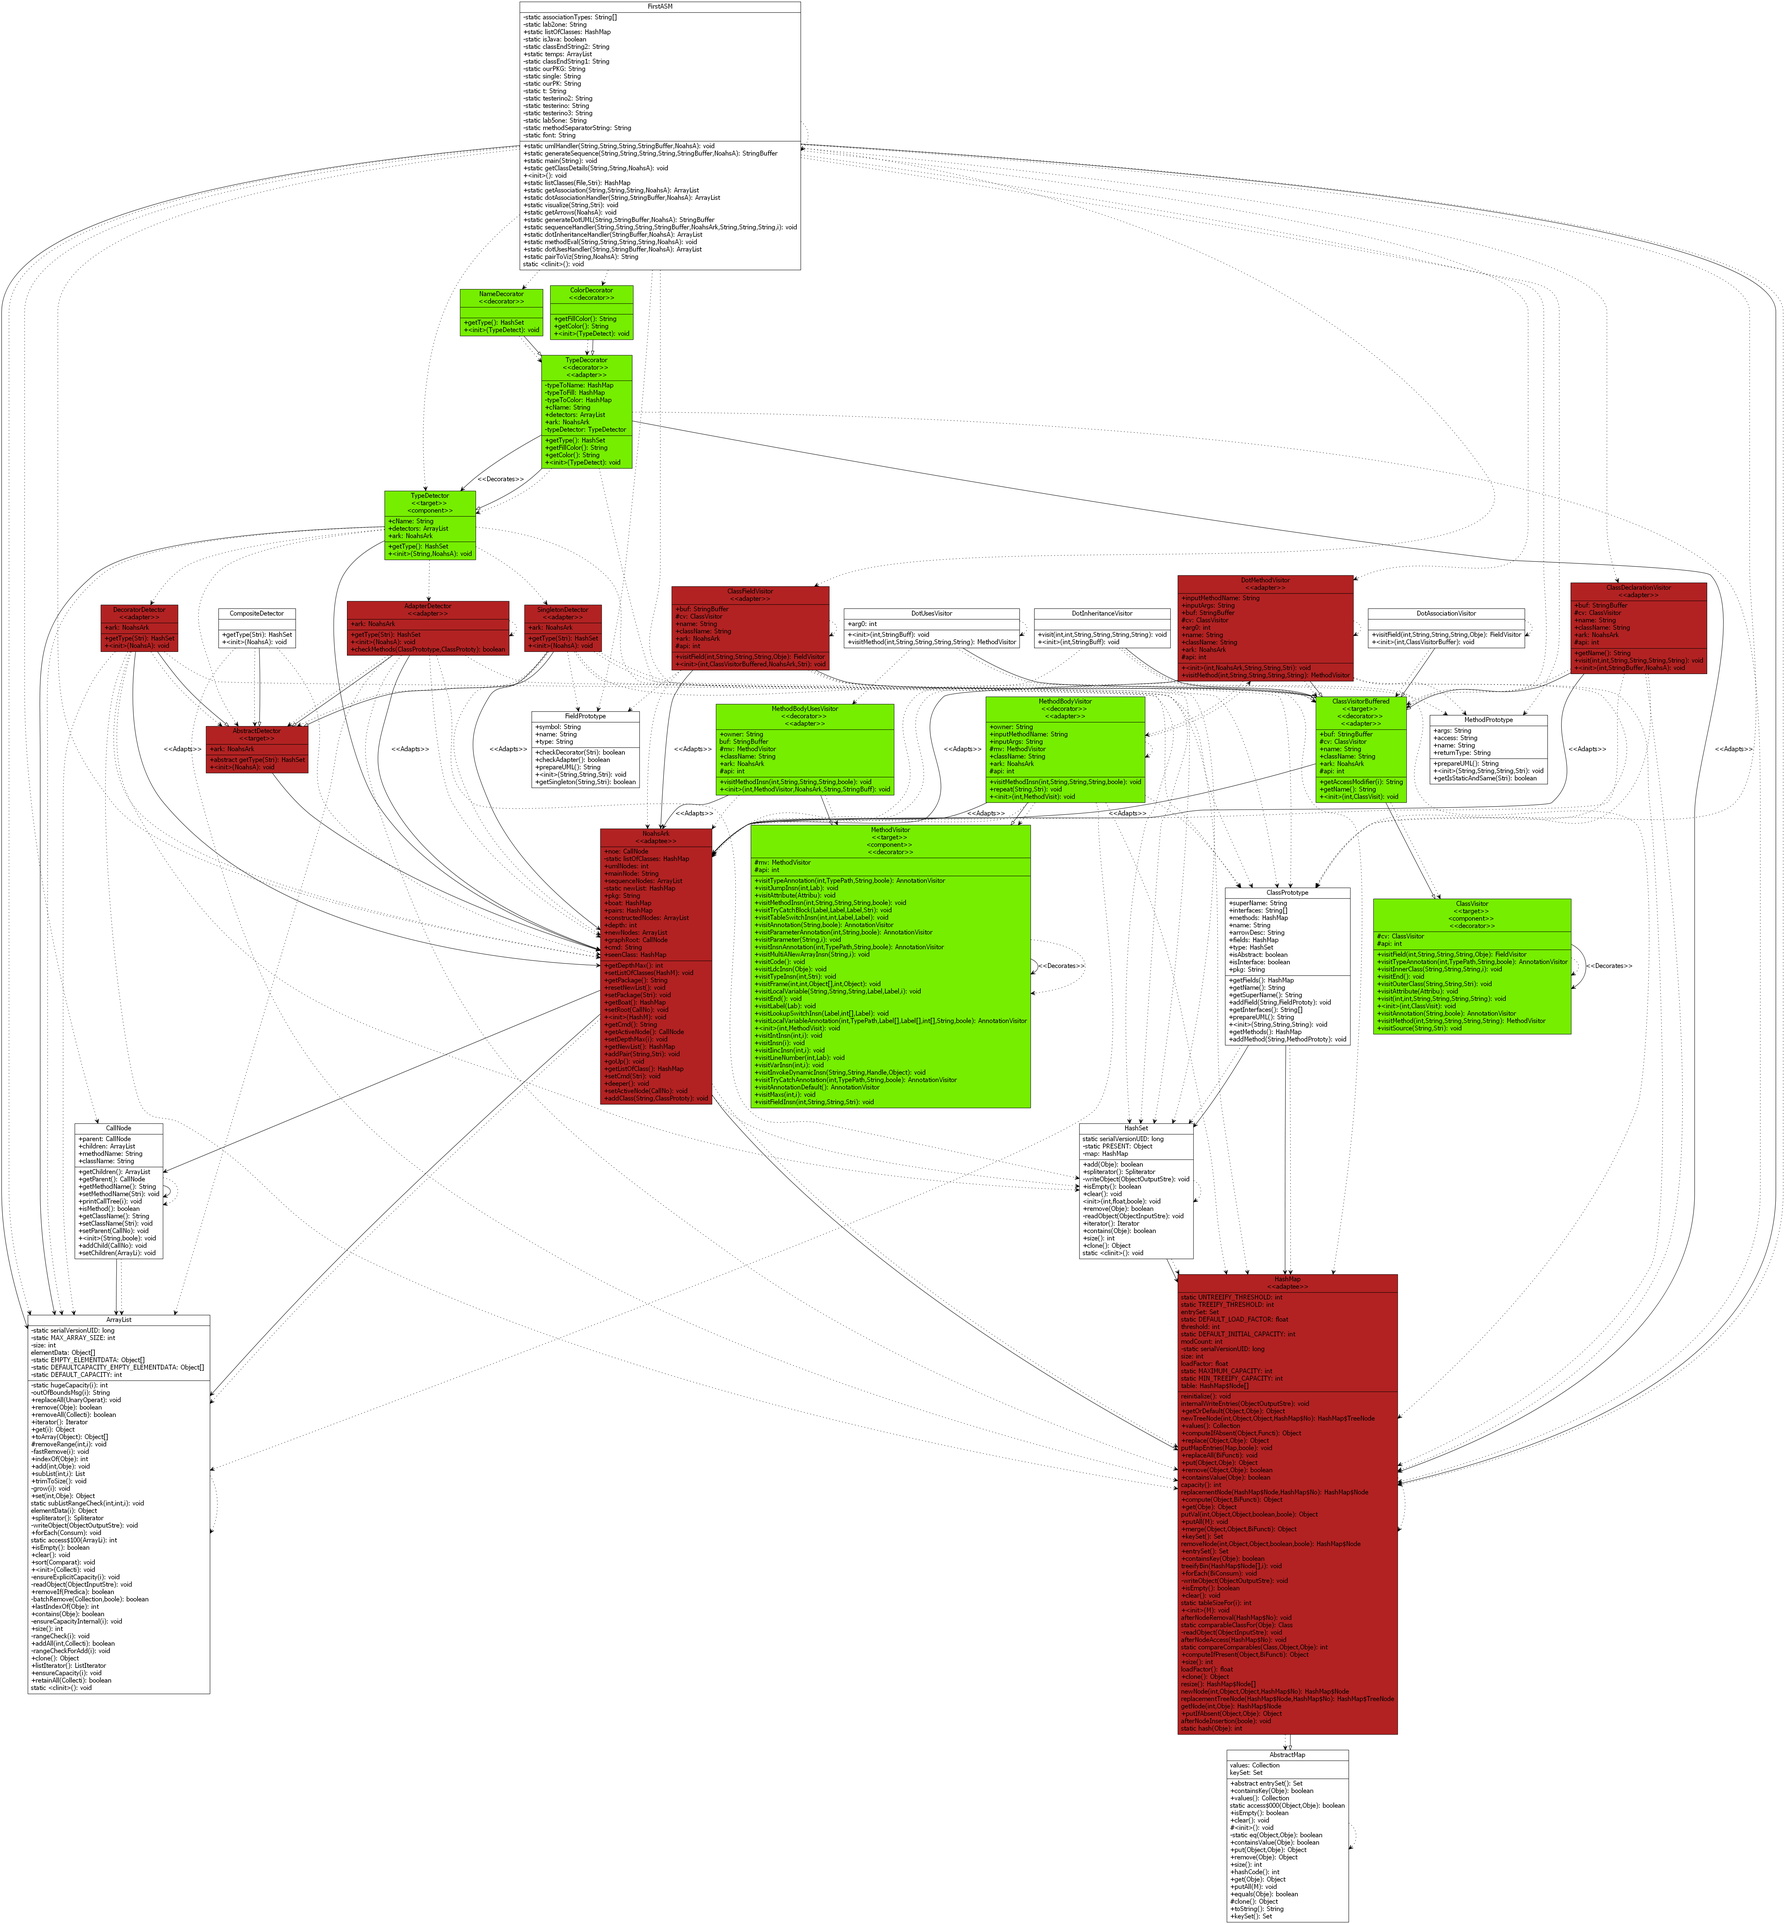
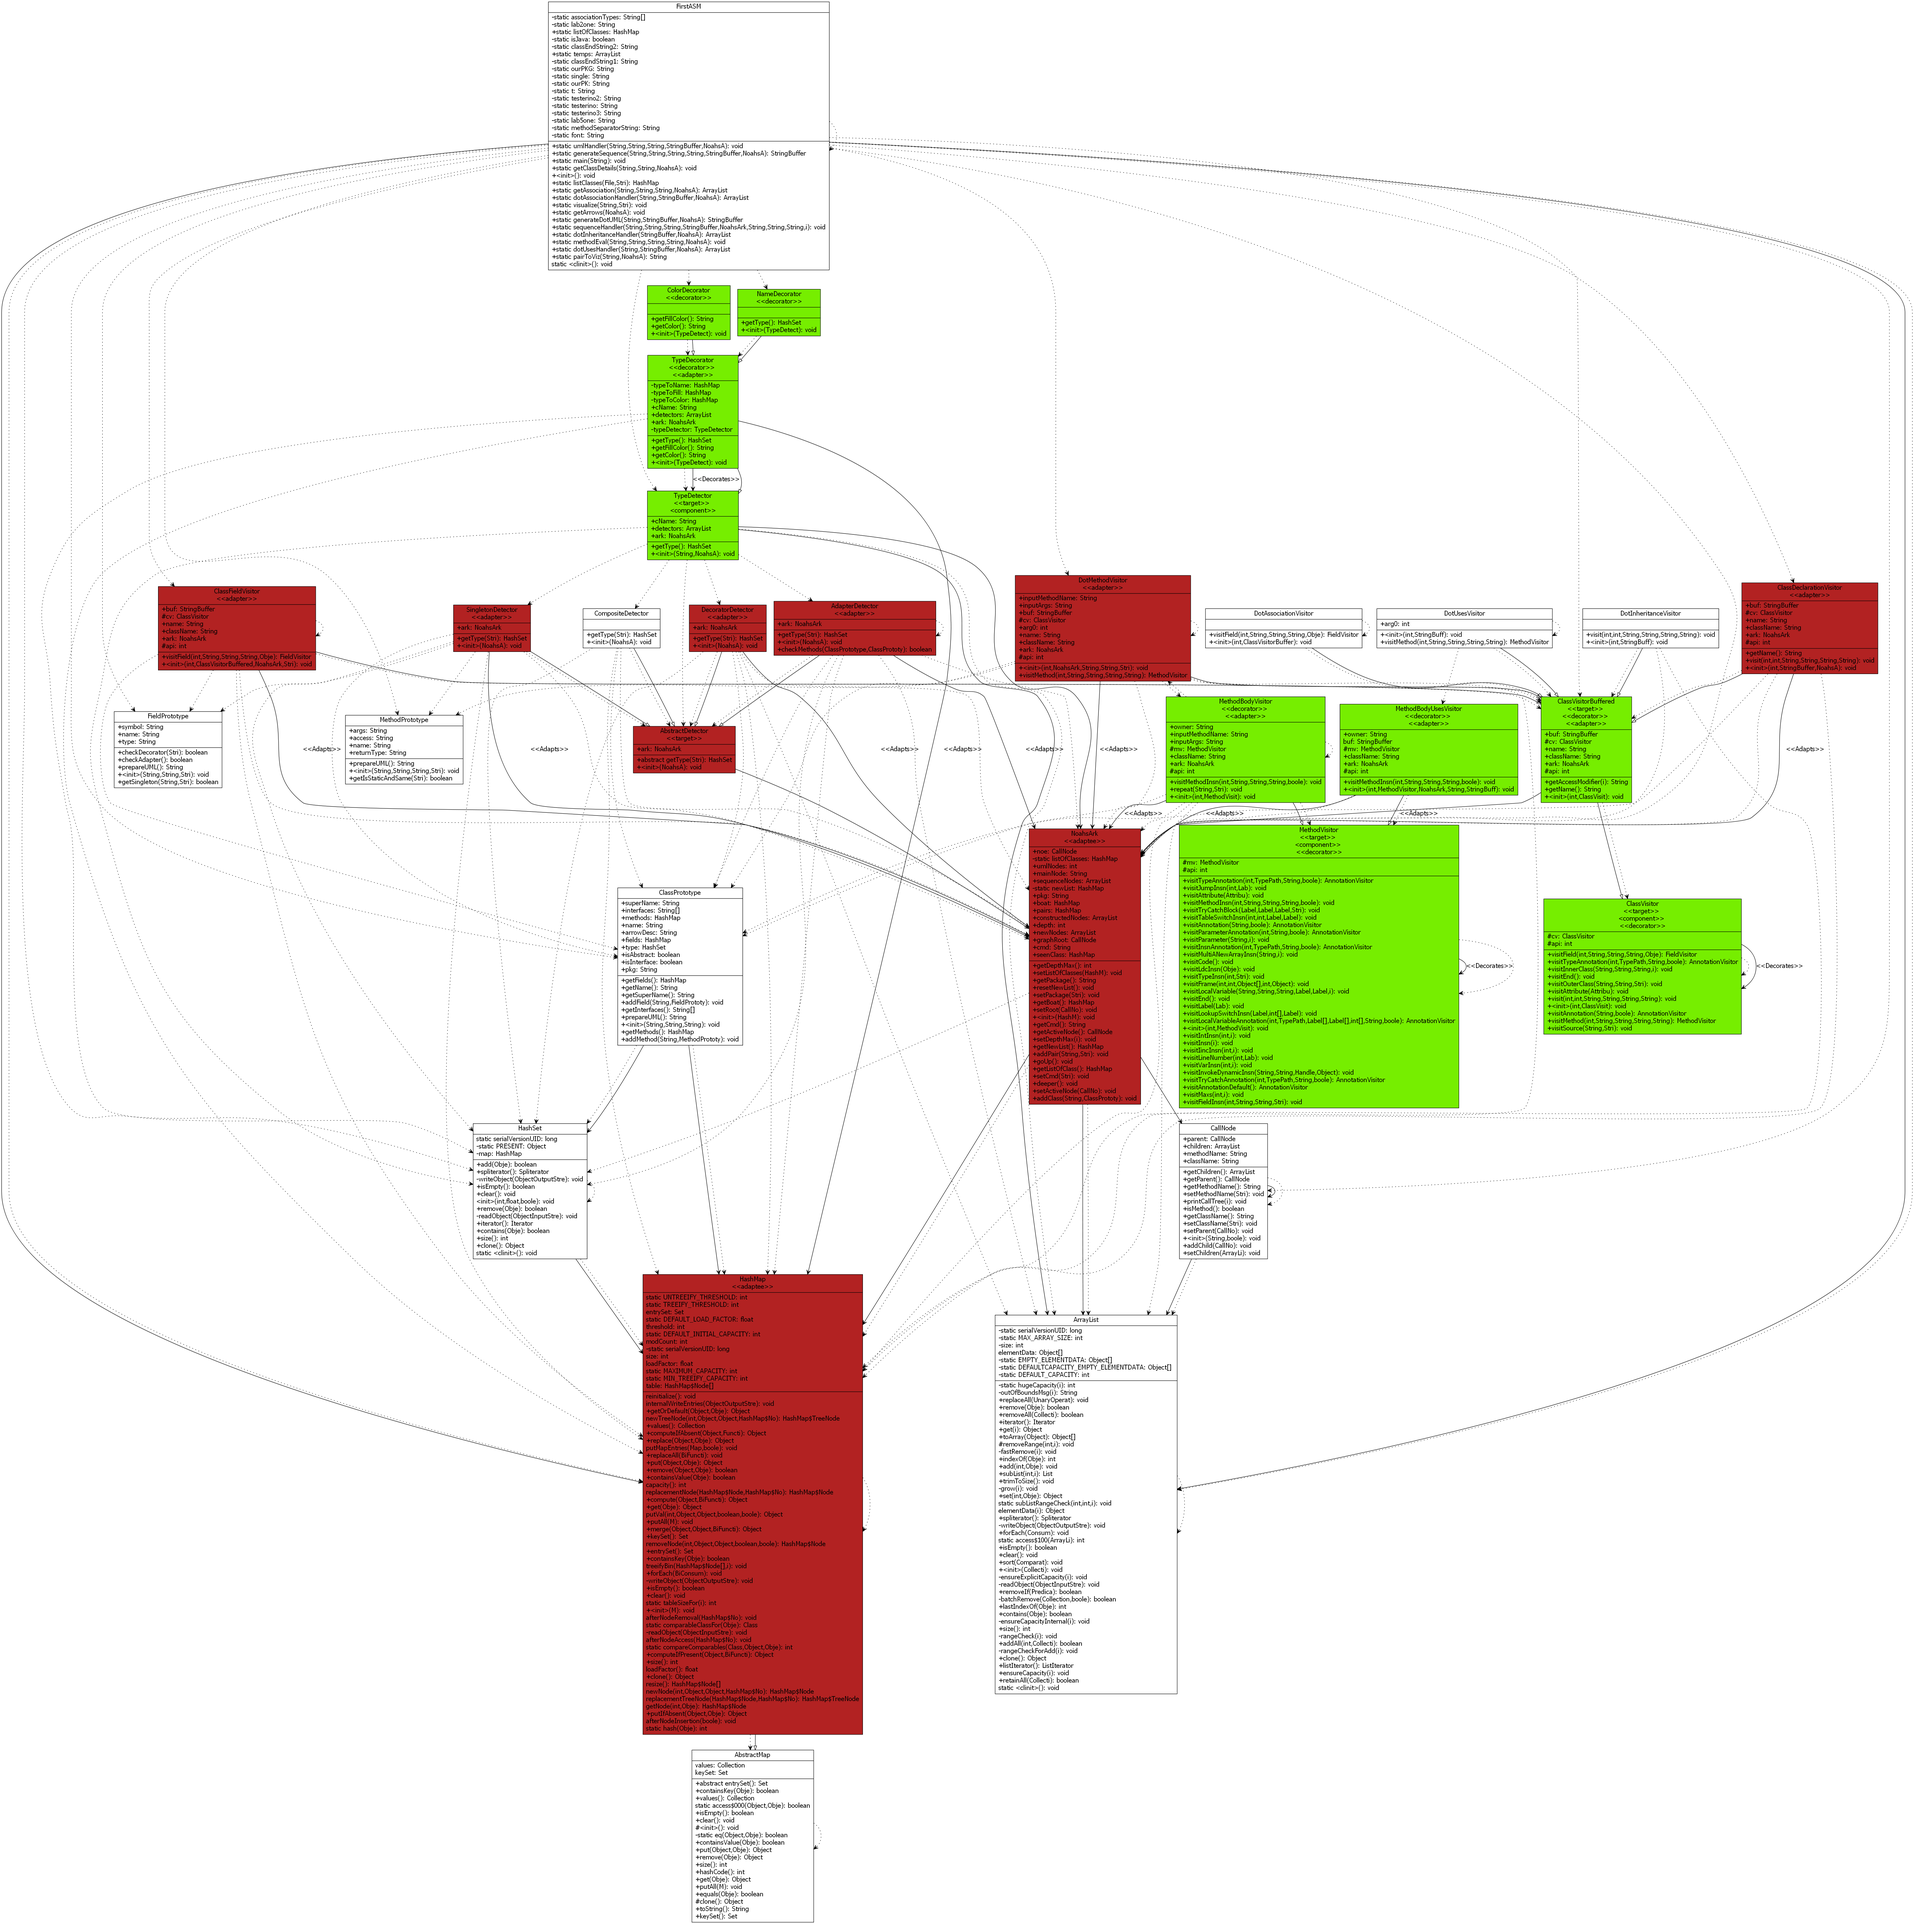
composite logic done

diff --git a/src/src/CompositeDetector.java b/src/src/CompositeDetector.java
@@ -10,11 +10,65 @@ public class CompositeDetector extends AbstractDetector{
 
 	@Override
 	public HashSet<String> getType(String cName) {
-		ClassPrototype c = super.ark.getBoat().get(cName);
-		// look at super, check assos arrow
-		// if this has list of components, super is the component, this is the composite
-		// all other classes that extend the component is a leaf (if it has no subclasses)
-		return null;
+		for(ClassPrototype c : super.ark.getBoat().values()){
+//			c = super.ark.getBoat().get(cName);
+			// look at super, check assos arrow
+			// if this has list of components, super is the component, this is the composite
+			// all other classes that extend the component is a leaf (if it has no subclasses)
+			String thisSuperName = c.getSuperName();
+			if(thisSuperName != null){
+				if(ark.pairs.containsKey(c.name)){
+					if(ark.pairs.get(c.name).contains("$" + thisSuperName)){
+						for(FieldPrototype f : c.fields.values()){
+							if(f.type.equals("List") && f.sig.equals(thisSuperName)){
+								c.type.add("composite");
+								ark.getBoat().get(thisSuperName).type.add("composite component");
+								for (ClassPrototype cp : super.ark.getBoat().values()) {
+									if(cp.superName.equals(thisSuperName) && !cp.name.equals(c.name)) cp.type.add("leaf");
+								}
+							}
+						}
+							
+					}
+				}
+			}
+			
+			for(String iface : c.getInterfaces()){
+				if(iface.contains("/")){
+					String[] temp = iface.split("/");
+					iface = temp[temp.length-1];
+				}
+				if(ark.pairs.containsKey(c.name)){
+					if(ark.pairs.get(c.name).contains("$" + iface)){
+						for(FieldPrototype f : c.fields.values()){
+							if(f.type.equals("List") && f.sig.equals(iface)){
+								c.type.add("composite");
+								ark.getBoat().get(iface).type.add("composite component");
+								for (ClassPrototype cp : super.ark.getBoat().values()) {
+									for(String i : cp.getInterfaces()){
+										if(i.contains("/")){
+											String[] temp = i.split("/");
+											i = temp[temp.length-1];
+										}
+										if(i.equals(iface)){
+											if(!cp.name.equals(c.name))cp.type.add("leaf");
+										}
+									}
+								}
+							}
+						}
+					}
+				}
+			}
+		}
+		
+//		for(ClassPrototype cl : this.ark.getBoat().values()){
+//			String className = cl.getName();
+//			String superName = cl.getSuperName();
+//		}
+//		
+		ClassPrototype cl = super.ark.getBoat().get(cName);
+		return cl.type;
 	}
 
 }

diff --git a/src/src/FirstASM.java b/src/src/FirstASM.java
@@ -28,6 +28,7 @@ public class FirstASM {
 	private static String single = "uml C:\\Users\\Maaster\\Dropbox\\Class\\CSSE374\\UMLMaker\\src\\singletons";
 	private static String lab2one = "uml C:\\Users\\Maaster\\Dropbox\\Class\\CSSE374\\UMLMaker\\src\\lab2one";
 	private static String lab5one = "uml C:\\Users\\Maaster\\Dropbox\\Class\\CSSE374\\UMLMaker\\src\\lab5one";
+	private static String comp = "uml C:\\Users\\Maaster\\Dropbox\\Class\\CSSE374\\UMLMaker\\src\\composite";
 	private static String testerino = "uml C:\\Users\\Maaster\\Dropbox\\Class\\CSSE374\\UMLMaker\\src\\pizzaf";
 	private static String testerino2 = "sequence C:\\Users\\Maaster\\Dropbox\\Class\\CSSE374\\UMLMaker\\src\\lab22 DataLine take char[] 5";
 	private static String testerino3 = "sequence java.util Collections shuffle List 5";
@@ -40,8 +41,8 @@ public class FirstASM {
 		BufferedReader in = new BufferedReader(new InputStreamReader(System.in));
 		String line = "";
 		System.out.print("UMLMaker>");
-		line = in.readLine();
-//		line  = single;
+//		line = in.readLine();
+		line  = comp;
 		if (line == null || line.length() == 0 || !line.contains(" "))
 			throw new IOException("FORMAT ERROR: Empty command is not supported!");
 		String command = line.split(" ")[0];
@@ -386,12 +387,14 @@ public class FirstASM {
 		String name = className;
 		String[] lines = buf.toString().split("\n");
 
+		
 		if (name.contains("/")) {
 			int len = name.split("/").length;
 			name = name.split("/")[len - 1];
 		}
 
 		for (String s : lines) {
+			System.out.println("Checking for association: " + s);
 			if (s.contains("/")) {
 				int len = s.split("/").length;
 				s = s.split("/")[len - 1];

diff --git a/src/src/TypeDecorator.java b/src/src/TypeDecorator.java
@@ -22,6 +22,9 @@ public class TypeDecorator extends TypeDetector{
 		this.typeToFill.put("adapter", "firebrick");
 		this.typeToFill.put("adaptee", "firebrick");
 		this.typeToFill.put("target", "firebrick");
+		this.typeToFill.put("composite component", "yellow");
+		this.typeToFill.put("composite", "yellow");
+		this.typeToFill.put("leaf", "yellow");
 		
 		this.typeToName.put("", "");
 		this.typeToName.put("singleton", "\\n\\<\\<Singleton\\>\\>");
@@ -30,6 +33,9 @@ public class TypeDecorator extends TypeDetector{
 		this.typeToName.put("adapter", "\\n\\<\\<adapter\\>\\>");
 		this.typeToName.put("adaptee", "\\n\\<\\<adaptee\\>\\>");
 		this.typeToName.put("target", "\\n\\<\\<target\\>\\>");
+		this.typeToName.put("composite component",  "\\n\\<\\<composite component\\>\\>");
+		this.typeToName.put("composite", "\\n\\<\\<composite\\>\\>");
+		this.typeToName.put("leaf", "\\n\\<\\<leaf\\>\\>");
 	}
 	
 	public String getColor(){
@@ -48,7 +54,10 @@ public class TypeDecorator extends TypeDetector{
 	
 	public HashSet<String> getType(){
 		HashSet<String> result = new HashSet<String>();
+//		System.out.println("asdlfja;lsdfjk " + this.typeDetector.getType());
 		for(String s : this.typeDetector.getType()){
+//			System.out.println("get type " + s);
+			if(s.equals("composite component")) System.out.println("wtf?!?!?!!??!?!?!?!?!?!?!?!?!?");
 			result.add(this.typeToName.get(s));
 			
 		}

diff --git a/src/src/ClassFieldVisitor.java b/src/src/ClassFieldVisitor.java
@@ -1,6 +1,8 @@
 package src;
 
 
+import java.util.Arrays;
+
 import org.objectweb.asm.FieldVisitor;
 import org.objectweb.asm.Type;
 
@@ -20,6 +22,11 @@ public class ClassFieldVisitor extends ClassVisitorBuffered {
 		FieldVisitor toDecorate = super.visitField(access, name, desc, signature, value);
 		String type = Type.getType(desc).getClassName();
 		String pkg = "";
+		String sig = "";
+		if(Type.getType(signature).getClassName().contains(".")){
+			String sign[] = Type.getType(signature).getClassName().split("\\.");
+			sig = sign[sign.length-1];
+		}
 		if(type.contains(".")){
 			String[] temparray = type.split("\\.");
 			type = temparray[temparray.length - 1];
@@ -42,7 +49,7 @@ public class ClassFieldVisitor extends ClassVisitorBuffered {
 		}
 		String symbol= getAccessModifier(access);
 		
-		this.ark.getBoat().get(this.className).addField(name, new FieldPrototype(symbol, name, type));
+		this.ark.getBoat().get(this.className).addField(name, new FieldPrototype(symbol, name, type, sig));
 		return toDecorate;
 	}
 }

diff --git a/src/composite/Program.java b/src/composite/Program.java
@@ -1,0 +1,31 @@
+package composite;
+
+/** Client */
+public class Program {
+
+    public static void main(String[] args) {
+        //Initialize four ellipses
+        Ellipse ellipse1 = new Ellipse();
+        Ellipse ellipse2 = new Ellipse();
+        Ellipse ellipse3 = new Ellipse();
+        Ellipse ellipse4 = new Ellipse();
+
+        //Initialize three composite graphics
+        CompositeGraphic graphic = new CompositeGraphic();
+        CompositeGraphic graphic1 = new CompositeGraphic();
+        CompositeGraphic graphic2 = new CompositeGraphic();
+
+        //Composes the graphics
+        graphic1.add(ellipse1);
+        graphic1.add(ellipse2);
+        graphic1.add(ellipse3);
+
+        graphic2.add(ellipse4);
+
+        graphic.add(graphic1);
+        graphic.add(graphic2);
+
+        //Prints the complete graphic (four times the string "Ellipse").
+        graphic.print();
+    }
+}

diff --git a/src/composite/CompositeGraphic.java b/src/composite/CompositeGraphic.java
@@ -1,0 +1,27 @@
+package composite;
+
+import java.util.List;
+import java.util.ArrayList;
+class CompositeGraphic extends AbstractGraphic implements Graphic {
+
+    //Collection of child graphics.
+    private List<Graphic> childGraphics = new ArrayList<Graphic>();
+    private List<AbstractGraphic> c = new ArrayList<AbstractGraphic>();
+
+    //Prints the graphic.
+    public void print() {
+        for (Graphic graphic : childGraphics) {
+            graphic.print();
+        }
+    }
+
+    //Adds the graphic to the composition.
+    public void add(Graphic graphic) {
+        childGraphics.add(graphic);
+    }
+
+    //Removes the graphic from the composition.
+    public void remove(Graphic graphic) {
+        childGraphics.remove(graphic);
+    }
+}

diff --git a/src/src/DotAssociationVisitor.java b/src/src/DotAssociationVisitor.java
@@ -23,12 +23,20 @@ public class DotAssociationVisitor extends ClassVisitorBuffered {
 			Object value){
 		FieldVisitor toDecorate = super.visitField(access, name, desc, signature, value);
 		String type = Type.getType(desc).getClassName();
+		
 		if(type.contains(".")){
 			String[] temparray = type.split("\\.");
 			type = temparray[temparray.length - 1];
 		}
 		String symbol= getAccessModifier(access);
+		String sig = "";
+		if(Type.getType(signature).getClassName().contains(".")){
+			String sign[] = Type.getType(signature).getClassName().split("\\.");
+			sig = sign[sign.length-1];
+		}
 		
+		// need to return inside type
+		buf.append(sig + "\n");
 		buf.append(type + "\n");
 		return toDecorate;
 	}

diff --git a/src/src/TypeDetector.java b/src/src/TypeDetector.java
@@ -14,12 +14,13 @@ public class TypeDetector {
 		this.detectors.add(new SingletonDetector(this.ark));
 		this.detectors.add(new DecoratorDetector(this.ark));
 		this.detectors.add(new AdapterDetector(this.ark));
+		this.detectors.add(new CompositeDetector(this.ark));
 	}
 	
 	public HashSet<String> getType(){
 		HashSet<String> result = new HashSet<String>();
 		for(AbstractDetector ad : this.detectors){
-				result.addAll(ad.getType(this.cName));
+			result.addAll(ad.getType(this.cName));
 		}
 		return result;
 	}

diff --git a/src/src/FieldPrototype.java b/src/src/FieldPrototype.java
@@ -4,11 +4,13 @@ public class FieldPrototype {
 	public String symbol;
 	public String name;
 	public String type;
+	public String sig;
 	
-	public FieldPrototype(String symbol, String name, String type) {
+	public FieldPrototype(String symbol, String name, String type, String sig) {
 		this.symbol = symbol;
 		this.name = name;
 		this.type = type;
+		this.sig = sig;
 	}
 	
 	public String prepareUML(){

diff --git a/src/composite/Ellipse.java b/src/composite/Ellipse.java
@@ -1,0 +1,11 @@
+package composite;
+
+
+/** "Leaf" */
+public class Ellipse implements Graphic {
+
+    //Prints the graphic.
+    public void print() {
+        System.out.println("Ellipse");
+    }
+}

diff --git a/src/composite/Graphic.java b/src/composite/Graphic.java
@@ -1,0 +1,8 @@
+package composite;
+
+/** "Component" */
+interface Graphic {
+
+    //Prints the graphic.
+    public void print();
+}

diff --git a/src/composite/GraphicExtendsLeaf.java b/src/composite/GraphicExtendsLeaf.java
@@ -1,0 +1,5 @@
+package composite;
+
+public class GraphicExtendsLeaf extends AbstractGraphic{
+
+}
